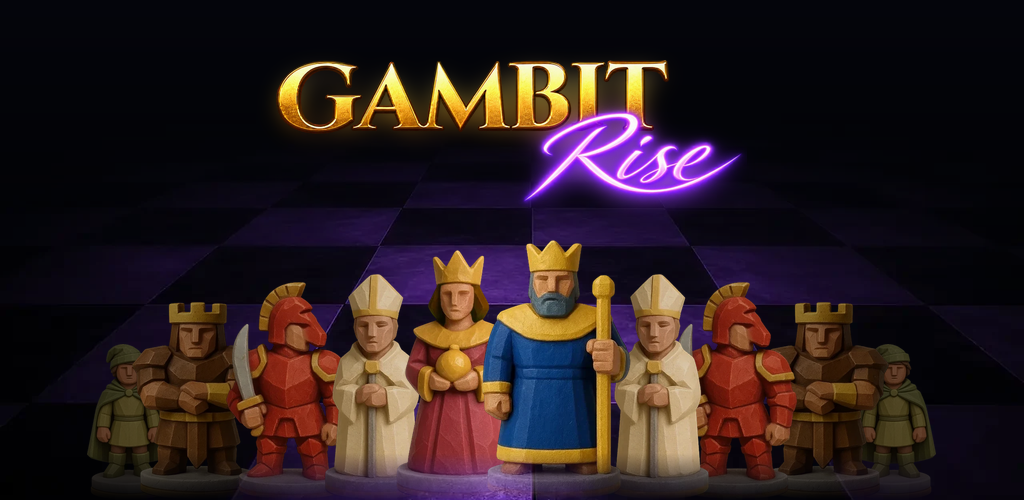
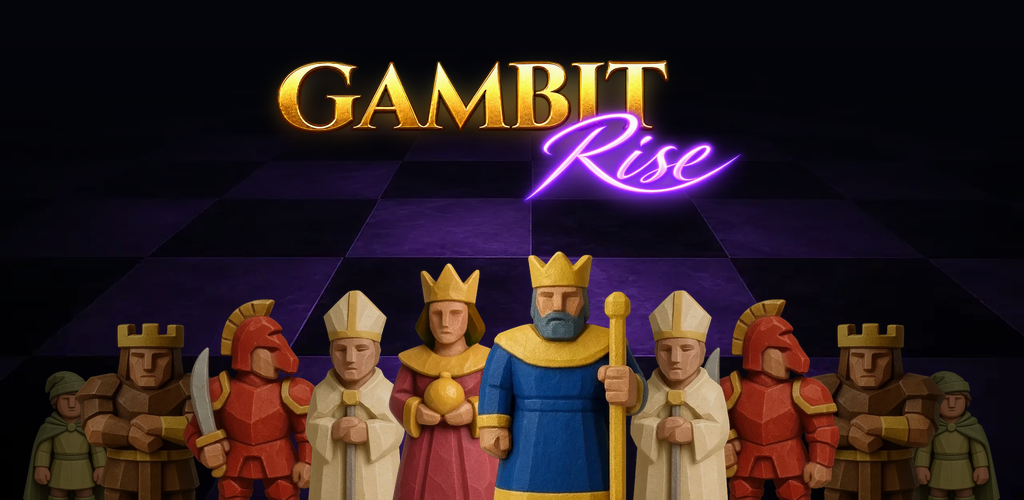
v1.82.0: die Figuren werden geschnitten, nicht ausgeblendet
Besitzer: "ich habe das Gefuehl, der Hintergrund scheint jetzt noch bei den
Figuren durch. Mach es bitte einfach so, dass du den Hintergrund noch weiter
nach oben schiebst, aber die Figuren tatsaechlich auch nur bis, ja, halt
einfach nochmal die unteren, das untere Viertel, eher Fuenftel, Sechstel noch
abschneidest, dass man sie nur bis theoretisch zu den Knien oder so sieht."

DIE URSACHE WAR MEINE MASKE
Seit v1.78.0 lief die Figurenreihe nach unten in einen Maskenverlauf aus -
"unten weich auslaufend" hatte ich damals woertlich genommen. Eine Maske
macht Pixel aber DURCHSICHTIG, nicht dunkel: genau deshalb schien der
violette Boden durch die Koenigin und die Laeufer. Der Befund des Besitzers
war also nicht "gefuehlt", sondern exakt richtig.
Die Maske ist weg. Stattdessen haengt die Reihe um 17 % ihrer Hoehe unter der
Fensterkante - ein knappes Sechstel, wie gewuenscht - und header.buehne
schneidet sie mit overflow:hidden hart ab. Gemessen am lebenden DOM: 43 px
von 253 auf dem Handy, 46 von 270 auf dem Desktop. Die Figuren stehen jetzt
deckend, sichtbar bis knapp unter die Knie.

DER GRUND RUECKT HOCH
Der Kasten waechst von 64 auf 76 % der Schirmhoehe (Desktop 62 auf 72), die
Bildstelle von 62 auf 84 % (Desktop 70 auf 88). Bei object-fit cover schiebt
beides den hellen Streifen nach oben, ohne die Unterkante des Bildes ins
Fenster zu holen.

ZWEI FOLGEARBEITEN
- Der Abdunkler am unteren Rand faellt flacher aus (120 auf 56 px, .75 auf
[…]

diff --git a/public/landing.html b/public/landing.html
@@ -93,35 +93,47 @@
        cover, genau wie es die App mit background-size cover tut. Die
        Bildstelle waehlt object-position: 39-50 % der Bildhoehe ist der
        hellste Teil des Bretts (gemessen an der Zeilenhelligkeit). */
+    /* v1.82.0 (Besitzer: "mach es bitte einfach so, dass du den Hintergrund
+       noch weiter nach oben schiebst"): hoeherer Kasten und eine tiefere
+       Bildstelle - bei object-fit cover ruecken beide den hellen Streifen
+       nach oben, ohne dass die Unterkante des Bildes ins Fenster kommt. */
     .halle img { position:absolute; left:0; right:0; bottom:0;
-      width:100%; height:min(64%, 640px); object-fit:cover; object-position:50% 62%;
+      width:100%; height:min(76%, 760px); object-fit:cover; object-position:50% 84%;
       max-width:none; opacity:1;
       -webkit-mask-image:linear-gradient(180deg,transparent 0%,rgba(0,0,0,.45) 12%,#000 38%,#000 100%);
       mask-image:linear-gradient(180deg,transparent 0%,rgba(0,0,0,.45) 12%,#000 38%,#000 100%); }
-    @media (min-width:760px){ .halle img { height:min(62%, 720px); object-position:50% 70%; } }
+    @media (min-width:760px){ .halle img { height:min(72%, 840px); object-position:50% 88%; } }
     /* Ein weicher Schleier ueber dem Brett: gemessen stand der Claim sonst auf
        den hellen Feldern und war kaum zu lesen. */
     .halle::after { content:""; position:absolute; inset:0; pointer-events:none;
       background:radial-gradient(74% 40% at 50% 34%, rgba(5,7,12,.6), rgba(5,7,12,.18) 62%, transparent 82%); }
     .buehne-inhalt { position:relative; z-index:3; padding-bottom:calc(var(--fh) * .62); }
-    /* Die Figuren stehen auf der Unterkante und loesen sich nach unten auf. */
+    /* v1.82.0 (Besitzer: "ich habe das Gefuehl, der Hintergrund scheint jetzt
+       noch bei den Figuren durch ... schneid die unteren, das untere Viertel,
+       eher Fuenftel, Sechstel noch ab, dass man sie nur bis theoretisch zu
+       den Knien sieht"): die Maske war der Fehler. Sie hat die Figuren nach
+       unten DURCHSICHTIG gemacht - deshalb schien der violette Boden durch
+       die Koenigin. Jetzt kein Ausblenden mehr, sondern ein harter Schnitt:
+       die Reihe haengt um ein knappes Sechstel ihrer Hoehe unter der
+       Fensterkante, und header.buehne (overflow:hidden) schneidet sie ab. */
     /* left:0/right:0 statt left:50% + translateX: ein absolut gesetzter
        Kasten mit left:50% darf gemessen nur die halbe Fensterbreite breit
        werden (auf dem Handy 195 px) - die Reihe wurde dadurch gequetscht. */
-    .hofreihe { position:absolute; left:0; right:0; bottom:0; z-index:2;
-      display:flex; flex-wrap:nowrap; align-items:flex-end; justify-content:center; pointer-events:none;
-      -webkit-mask-image:linear-gradient(180deg,#000 0%,#000 70%,rgba(0,0,0,.5) 88%,transparent 100%);
-      mask-image:linear-gradient(180deg,#000 0%,#000 70%,rgba(0,0,0,.5) 88%,transparent 100%); }
+    .hofreihe { position:absolute; left:0; right:0; bottom:calc(var(--fh) * -.17); z-index:2;
+      display:flex; flex-wrap:nowrap; align-items:flex-end; justify-content:center; pointer-events:none; }
     .hofreihe img { height:calc(var(--fh) * var(--h,1)); width:auto; display:block; position:relative;
       margin-inline:calc(var(--fh) * -.075); z-index:var(--z,1);
       filter:brightness(var(--b,1)) drop-shadow(0 12px 26px rgba(0,0,0,.8)); }
     @media (max-width:900px){ .hofreihe img.rand { display:none; } }
     @media (max-width:560px){ .hofreihe img.rand2 { display:none; } }
-    .buehne::after { content:""; position:absolute; left:0; right:0; bottom:0; height:120px;
+    /* v1.82.0: der Abdunkler bleibt, faellt aber flacher aus - er soll den
+       Uebergang zum naechsten Abschnitt tragen, nicht die Beine schlucken. */
+    .buehne::after { content:""; position:absolute; left:0; right:0; bottom:0; height:56px;
       z-index:4; pointer-events:none;
-      background:linear-gradient(180deg,transparent,rgba(5,7,12,.75) 62%,var(--night)); }
-    .runter { position:absolute; left:50%; transform:translateX(-50%); bottom:14px; z-index:6;
-      color:rgba(233,207,138,.72); text-decoration:none; font-size:26px; line-height:1;
+      background:linear-gradient(180deg,transparent,rgba(5,7,12,.45) 70%,rgba(5,7,12,.8)); }
+    .runter { position:absolute; left:50%; transform:translateX(-50%); bottom:10px; z-index:6;
+      color:rgba(233,207,138,.82); text-decoration:none; font-size:26px; line-height:1;
+      text-shadow:0 2px 10px rgba(0,0,0,.9), 0 0 4px rgba(0,0,0,.8);
       animation:ggWink 2.4s ease-in-out infinite; }
     @keyframes ggWink { 0%,100% { transform:translate(-50%,0); opacity:.55; } 50% { transform:translate(-50%,6px); opacity:1; } }
     @media (prefers-reduced-motion: reduce) { .runter { animation:none; } }

diff --git a/tools/playstore_grafik.py b/tools/playstore_grafik.py
@@ -77,21 +77,18 @@ def figurenreihe(hoehe, ueberlappung=0.075):
 
 
 def feature(pfad, b=1024, h=500, lang="de"):
-    bild = dunkeln(boden(b, h, 0.58), oben=0.66)
-    reihe = figurenreihe(round(h * 0.52))
+    bild = dunkeln(boden(b, h, 0.84), oben=0.66)
+    reihe = figurenreihe(round(h * 0.60))
     s = min(1.0, (b * 0.98) / reihe.width)
     if s < 1.0:
         reihe = reihe.resize((round(reihe.width * s), round(reihe.height * s)), Image.LANCZOS)
-    # Nach unten weich auslaufen lassen
-    maske = Image.new("L", (1, reihe.height))
-    for y in range(reihe.height):
-        t = y / max(1, reihe.height - 1)
-        maske.putpixel((0, y), 255 if t < 0.82 else int(255 * max(0.0, (1 - t) / 0.18)))
-    maske = maske.resize(reihe.size)
-    a = reihe.split()[3].point(lambda v: v)
-    reihe.putalpha(Image.composite(a, Image.new("L", reihe.size, 0), maske))
+    # v1.82.0 (Besitzer: "ich habe das Gefuehl, der Hintergrund scheint jetzt
+    # noch bei den Figuren durch ... schneid das untere Fuenftel, Sechstel
+    # noch ab"): KEIN weiches Auslaufen mehr - das hat die Figuren nach unten
+    # durchsichtig gemacht, und der violette Boden schien durch die Koenigin.
+    # Stattdessen ein harter Schnitt an der Unterkante, wie auf der Seite.
     bild = bild.convert("RGBA")
-    bild.alpha_composite(reihe, ((b - reihe.width) // 2, h - reihe.height))
+    bild.alpha_composite(reihe, ((b - reihe.width) // 2, h - round(reihe.height * 0.83)))
 
     marke = Image.open(f"{WURZEL}/wortmarke.webp").convert("RGBA")
     mb = round(b * 0.46)

diff --git a/CHANGELOG.md b/CHANGELOG.md
@@ -1,5 +1,30 @@
 # Changelog - Gambit Rise
 
+## 1.82.0 - die Figuren werden geschnitten, nicht ausgeblendet
+
+- Besitzer: "ich habe das Gefuehl, der Hintergrund scheint jetzt noch bei den
+  Figuren durch. Mach es bitte einfach so, dass du den Hintergrund noch
+  weiter nach oben schiebst, aber die Figuren tatsaechlich auch nur bis, ja,
+  halt einfach nochmal die unteren, das untere Viertel, eher Fuenftel,
+  Sechstel noch abschneidest, dass man sie nur bis theoretisch zu den Knien
+  oder so sieht."
+- DIE URSACHE war meine Maske. Seit v1.78.0 lief die Figurenreihe nach unten
+  in einen Verlauf aus - das macht die Pixel DURCHSICHTIG, nicht dunkel.
+  Genau deshalb schien der violette Boden durch die Koenigin. Die Maske ist
+  weg; stattdessen haengt die Reihe um 17 % ihrer Hoehe (ein knappes
+  Sechstel, wie gewuenscht) unter der Fensterkante, und header.buehne
+  schneidet sie mit overflow:hidden hart ab. Gemessen: 43 px von 253 auf dem
+  Handy, 46 von 270 auf dem Desktop.
+- DER GRUND rueckt weiter nach oben: der Kasten waechst von 64 auf 76 % der
+  Schirmhoehe (Desktop 62 auf 72), die Bildstelle von 62 auf 84 %
+  (Desktop 70 auf 88). Beides schiebt bei object-fit cover den hellen
+  Streifen nach oben, ohne die Unterkante des Bildes ins Fenster zu holen.
+- Der Abdunkler am unteren Rand faellt flacher aus (120 auf 56 px, .75 auf
+  .45) - er soll den Uebergang zum naechsten Abschnitt tragen, nicht die
+  Beine schlucken. Der Pfeil bekommt dafuer einen Schatten.
+- DIE PLAY-STORE-GRAFIK zieht mit: derselbe harte Schnitt, derselbe hoehere
+  Bildausschnitt, Figuren etwas groesser.
+
 ## 1.81.0 - die Play-Store-Grafik kommt aus denselben Teilen wie der erste Schirm
 
 - Besitzer: "vielleicht kannst du aus dem dann auch noch schon beispielhaft
